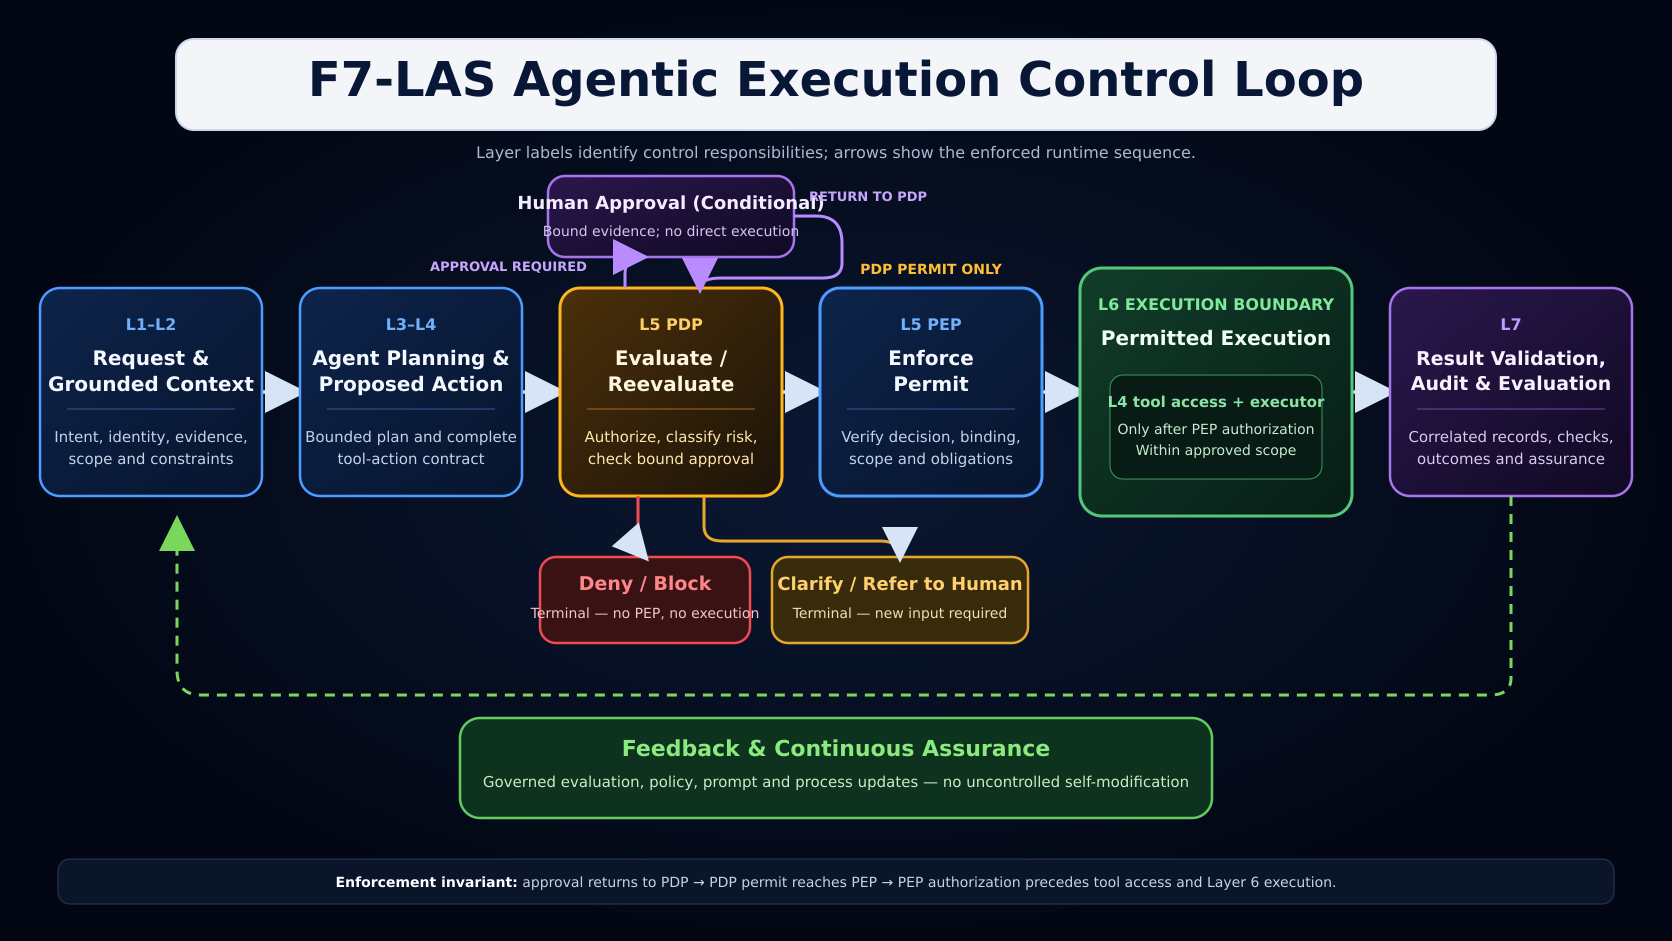
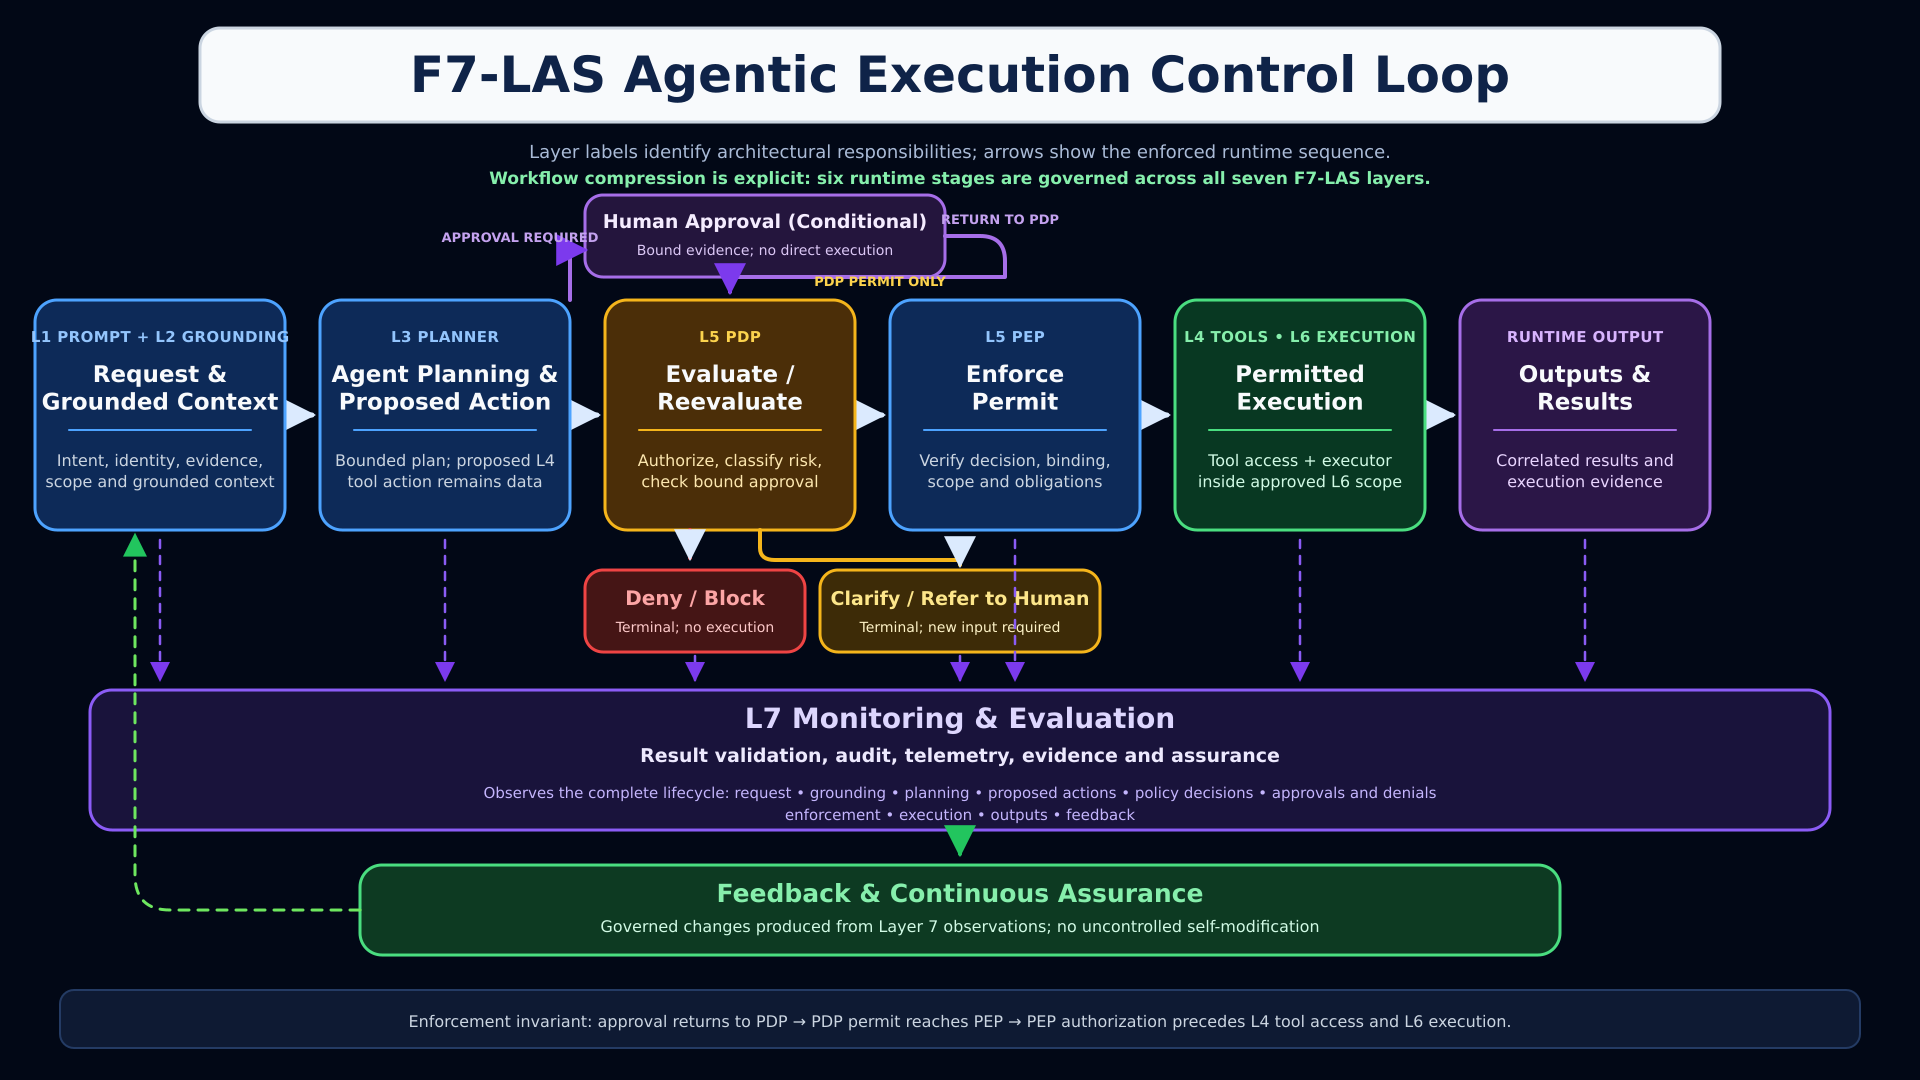
Align control-loop semantics

diff --git a/architecture/control-loop.md b/architecture/control-loop.md
@@ -2,7 +2,7 @@
 
 ## Purpose
 
-The F7-LAS Agentic Execution Control Loop defines the runtime governance pattern used across the **Agentic MSSP / MDR / DFIR Security Operations Architecture**. It shows how agentic actions are proposed, policy-evaluated, human-reviewed when required, executed within scoped boundaries, validated, monitored, and fed back into continuous assurance.
+The F7-LAS Agentic Execution Control Loop defines the runtime governance pattern used across the **Agentic MSSP / MDR / DFIR Security Operations Architecture**. It presents a six-stage runtime flow while preserving all seven F7-LAS architectural responsibilities. It shows how agentic actions are proposed, policy-evaluated, human-reviewed when required, executed within scoped boundaries, observed, and fed back into continuous assurance.
 
 Its purpose is to ensure that agentic systems do not act on implicit trust, but operate through explicit mission context, policy decisioning, enforcement points, human oversight, auditability, and fail-closed controls.
 
@@ -10,19 +10,36 @@ Its purpose is to ensure that agentic systems do not act on implicit trust, but 
 
 ## Executive Control Loop Diagram
 
-![F7-LAS Executive Control Loop showing the governed path from mission request through policy decision, enforcement, scoped execution, validation, audit, evaluation, and continuous assurance](diagrams/f7-las-executive-control-loop-agentic-systems.png)
+![F7-LAS executive control loop showing six runtime stages governed across all seven layers, conditional human approval, PDP and PEP gates, scoped execution, lifecycle-wide Layer 7 monitoring and governed feedback](diagrams/f7-las-executive-control-loop-agentic-systems.png)
 
 [Open the full-resolution F7-LAS executive control-loop diagram](diagrams/f7-las-executive-control-loop-agentic-systems.png)
 
-The executive diagram summarizes the governed operating sequence, decision outcomes, conditional human approval, and continuous-assurance feedback at a high level.
+The numbered elements are runtime stages, not F7-LAS layer numbers. The executive diagram summarizes a **six-stage runtime flow governed across all seven F7-LAS layers**. L1 Prompt and L2 Grounding remain distinct architectural responsibilities even though they are compressed into the first runtime stage.
 
 ## Agentic Execution Control Loop Diagram
 
-![F7-LAS Agentic Execution Control Loop showing policy-gated agent reasoning, human oversight, scoped execution, validation, monitoring, and continuous assurance](diagrams/control-Loop.png)
+![F7-LAS technical execution control loop showing all seven responsibility layers, permit-only PDP-to-PEP routing, Layer 4 tool access inside the Layer 6 boundary, lifecycle-wide Layer 7 monitoring and evaluation, and governed feedback](diagrams/control-Loop.png)
 
 [Open the full-resolution F7-LAS execution control-loop diagram](diagrams/control-Loop.png)
 
-The technical diagram shows the corresponding layer responsibilities and enforcement sequence. Both diagrams are conceptual runtime-governance views. They illustrate how agent requests and proposed actions move through policy evaluation, conditional human oversight, enforcement, scoped execution, result validation, audit, evaluation, and governed feedback. They do not represent a deployed production environment or claim that every depicted capability is implemented by this repository.
+The technical diagram shows the corresponding layer responsibilities and enforcement sequence. Its six displayed runtime stages are workflow compression; they do not merge or redefine the seven architectural layers.
+
+Both diagrams are conceptual runtime-governance views. They do not represent a deployed production environment, claim that every depicted capability is implemented by this repository, or establish production enforcement. The repository CLI performs offline conformance checks and does not execute external actions.
+
+### Canonical F7-LAS semantics
+
+- **L7 Monitoring & Evaluation** performs result validation, audit, telemetry, evidence, and assurance.
+- Layer 7 observes the complete lifecycle: request, grounding, planning, proposed actions, policy decisions, approvals, denials, enforcement, execution, outputs, and feedback.
+- Runtime stages and terminal outcomes flow into Layer 7 observation.
+- **Feedback & Continuous Assurance** is governed feedback produced from Layer 7 observations. It is not an eighth layer and does not permit uncontrolled self-modification.
+- Conditional human approval returns to the PDP for reevaluation and never authorizes direct execution.
+- Only a PDP permit reaches the PEP. PEP authorization precedes Layer 4 tool access and Layer 6 execution.
+- **Deny / Block** and **Clarify / Refer to Human** are distinct terminal outcomes.
+
+| Diagram asset | Dimensions | SHA-256 |
+|---|---:|---|
[2 lines of base64/hex data omitted]
 
 ---
 
@@ -46,29 +63,29 @@ Not every workflow requires every branch in the loop. For example, read-only enr
 
 ## Control Loop Flow
 
-1. **L1–L2 Request & Grounded Context**
-   Captures the task, tenant or case scope, retrieved context, identity, authority, and operational purpose.
+The runtime sequence is compressed into six stages for readability. The F7-LAS layers remain distinct responsibility domains and do not have to execute in simple numeric order.
 
-2. **L3–L4 Agent Planning & Proposed Action**
-   The agent reasons over context, retrieves supporting information, plans the next step, and produces a complete tool-action contract. The proposed action remains data, not authority, and must not execute until policy and enforcement controls permit it.
+1. **Runtime Stage 1 — L1 Prompt + L2 Grounding: Mission Request & Grounded Context**
+   L1 establishes the governed request, identity, purpose, scope, and constraints. L2 supplies authorized evidence and grounded context. They remain distinct responsibilities within the compressed stage.
 
-3. **L5 Policy Decision Point (PDP)**  
-   A policy decision is made before execution. The policy engine evaluates authorization, risk, tenant/case scope, tool permissions, approval requirements, data boundaries, and policy-as-code rules.
+2. **Runtime Stage 2 — L3 Agent Planning & Proposed Action**
+   Agent Planning creates a bounded plan and proposed Layer 4 tool action. The proposed action remains data, not authority, and must not execute until policy and enforcement controls permit it.
 
-4. **Conditional Human Approval**
-   Human approval is required for sensitive, destructive, customer-impacting, privileged, evidence-related, or policy-exception actions. The approval is bound to the proposed action, scope, policy, and expiry and returns to the PDP for reevaluation; it does not authorize direct execution.
+3. **Runtime Stage 3 — L5 Policy Decision Point (PDP)**
+   The PDP evaluates authorization, risk, tenant/case scope, tool permissions, approval requirements, data boundaries, and policy-as-code rules. If approval is required, the approval is bound to the proposed action, scope, policy, and expiry and returns to the PDP for reevaluation. Deny / Block and Clarify / Refer to Human terminate the current path without execution.
 
-5. **L5 Policy Enforcement Point (PEP)**
-   Only a PDP permit reaches the PEP. The PEP verifies the decision, binding, scope, and obligations before authorizing access to execution.
+4. **Runtime Stage 4 — L5 Policy Enforcement Point (PEP)**
+   Only a PDP permit reaches the PEP. The PEP verifies the decision, binding, scope, and obligations before authorizing access.
 
-6. **L6 Permitted Execution Boundary**
-   Permitted actions execute only within an approved scope using containment, bounded permissions, approved tools, and least privilege. L4 tool access and the executor operate inside this boundary only after PEP authorization.
+5. **Runtime Stage 5 — L4 Tool Access + L6 Scoped Execution**
+   Layer 4 tool access and the executor operate inside the approved Layer 6 boundary only after PEP authorization, using containment, bounded permissions, approved tools, and least privilege.
 
-7. **L7 Result Validation, Audit & Evaluation**
-   Results and correlated records are checked for correctness, quality, policy alignment, evidence support, tenant/case scope, and customer-impact risk before being used, escalated, or released. Decisions, approvals, denials, tool calls, telemetry, and outcomes are retained for audit and evaluation.
+6. **Runtime Stage 6 — Outputs & Results**
+   The runtime emits correlated results and execution evidence. These outputs do not bypass validation, release, evidence, or customer-impact controls.
 
-8. **Feedback & Continuous Assurance**
-   Monitoring and evaluation results feed back into prompts, policies, test cases, process improvements, assurance controls, and operating procedures through governed change control.
+**L7 Monitoring & Evaluation** observes every runtime stage and terminal outcome. It receives the decisions, telemetry, evidence, and outcomes needed for result validation, audit, evaluation, and assurance.
+
+**Feedback & Continuous Assurance** uses Layer 7 observations to inform governed prompt, policy, test, process, assurance-control, and operating-procedure changes. Those changes follow change control; they are not direct runtime self-modification.
 
 ## Fleet and Propagation Boundary
 

diff --git a/human-oversight/approval-workflows.md b/human-oversight/approval-workflows.md
@@ -373,7 +373,7 @@ Approval workflows primarily align with:
 - L4 Tool Layer, where mediated tool execution requires gated authorization for sensitive actions.
 - L5 Policy Engine Layer, where PEP/PDP decisions may require human approval before execution.
 - L6 Sandbox / Blast-Radius Layer, where approval constrains operational scope and impact.
-- L7 Monitoring Layer, where approval decisions, escalations, exceptions, and audit events remain observable.
+- L7 Monitoring & Evaluation, where approval decisions, escalations, exceptions, and audit events remain observable and auditable.
 
 F7-LAS should support the architecture’s accountability model. It should not replace the MSSP / MDR / DFIR operating model or become the primary subject of this file.
 

diff --git a/human-oversight/readme.md b/human-oversight/readme.md
@@ -269,7 +269,7 @@ Human oversight primarily aligns with:
 - L4 Tool Layer, where mediated tool execution prevents direct uncontrolled action.
 - L5 Policy Engine Layer, where PEP/PDP decisions require explicit approval routing.
 - L6 Sandbox / Blast-Radius Layer, where human approval helps constrain operational impact.
-- L7 Monitoring Layer, where review decisions, audit events, and escalation outcomes must remain observable.
+- L7 Monitoring & Evaluation, where review decisions, audit events, and escalation outcomes must remain observable and auditable.
 
 F7-LAS should support the architecture’s accountability model. It should not replace the MSSP / MDR / DFIR operating model or become the primary subject of this directory.
 

diff --git a/human-oversight/analyst-review-checkpoints.md b/human-oversight/analyst-review-checkpoints.md
@@ -372,7 +372,7 @@ Relevant alignment includes:
 - L4 Tools: tool actions must remain mediated and policy-gated.
 - L5 Policy: approval and authorization requirements must not be bypassed by analyst review.
 - L6 Sandbox / Blast Radius: containment and response recommendations must account for operational impact.
-- L7 Monitoring: analyst decisions, evidence references, outcomes, and escalations must be auditable.
+- L7 Monitoring & Evaluation: analyst decisions, evidence references, outcomes, and escalations must remain observable and auditable.
 
 F7-LAS supports the checkpoint model but does not replace the MSSP / MDR / DFIR operating model.
 
